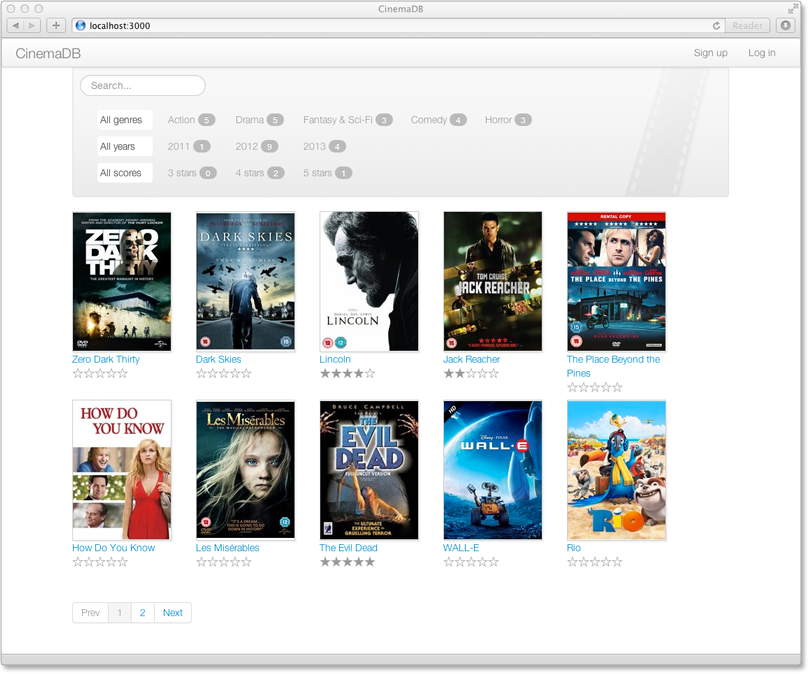
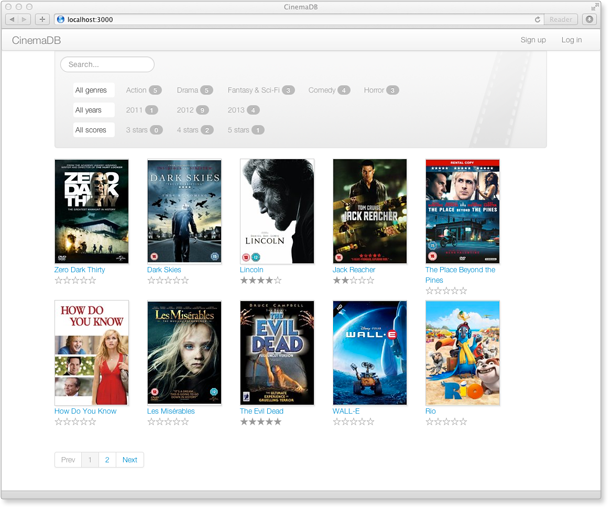
Resized screenshot to better fit GitHub window.
Is now only 600px wide.

diff --git a/README.md b/README.md
@@ -2,7 +2,8 @@
 
 Prototype application for movie listing and ratings.
 
-![Screenshot of main movie listing page](https://github.com/olavolav/CinemaDB/raw/master/screenshot.jpg)
+![Screenshot of main movie listing page](https://github.com/olavolav/CinemaDB/raw/master/screenshot.png)
+
 
 ## Dependencies
 
